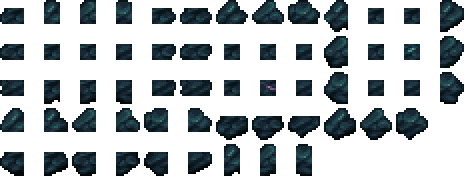
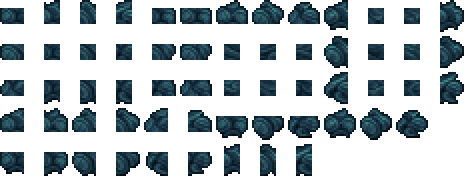
navystone sprite and kept old one for wall variety

diff --git a/World/SunkenSea.cs b/World/SunkenSea.cs
@@ -939,6 +939,17 @@ namespace CalamityMod.World
                                 WorldGen.PlaceTile(X, Y, (ushort)ModContent.TileType<Navystone>());
                             }
 
+                            float horizontalOffsetNoiseWallsinner = CalamityUtils.PerlinNoise2D(X / 80, Y / 80, 5, unchecked(cavePerlinSeedWalls + 1)) * 0.01f;
+                            float cavePerlinValueWallsinner = CalamityUtils.PerlinNoise2D(X / 375f, Y / 375f, 5, cavePerlinSeedWalls) + 0.5f + horizontalOffsetNoiseWallsinner;
+                            float cavePerlinValue2Wallsinner = CalamityUtils.PerlinNoise2D(X / 375f, Y / 375f, 5, unchecked(cavePerlinSeedWalls - 1)) + 0.5f;
+                            float caveNoiseMapWallsinner = (cavePerlinValueWallsinner + cavePerlinValue2Wallsinner) * 0.5f;
+                            float caveCreationThresholdWallsinner = horizontalOffsetNoiseWallsinner * 5.5f + 0.435f;
+
+                            if (caveNoiseMapWallsinner * caveNoiseMapWallsinner > caveCreationThresholdWallsinner)
+                            {
+                                WorldGen.PlaceWall(X, Y, ModContent.WallType<NavyslateWall>());
+                            }
+
                             //place walls in the biome using a different "seed" so it differs from the cave generation
                             //this creates a neat effect where walls worm their way through the caverns while leaving openings for the background to show through
                             float horizontalOffsetNoiseWalls = CalamityUtils.PerlinNoise2D(X / 80, Y / 80, 5, unchecked(cavePerlinSeedWalls + 1)) * 0.01f;
@@ -951,6 +962,8 @@ namespace CalamityMod.World
                             {
                                 WorldGen.PlaceWall(X, Y, ModContent.WallType<NavystoneWall>());
                             }
+
+                            
 
                             Main.tile[X, Y].Get<LiquidData>().LiquidType = LiquidID.Water;
                             Main.tile[X, Y].LiquidAmount = byte.MaxValue;

diff --git a/Walls/NavyslateWall.cs b/Walls/NavyslateWall.cs
@@ -6,15 +6,14 @@ using Terraria;
 using Terraria.ModLoader;
 namespace CalamityMod.Walls
 {
-    public class NavystoneWall : ModWall, IVisibleThroughWater
+    public class NavyslateWall : ModWall, IVisibleThroughWater
     {
-        internal static FramedMaskTexture GlowMask;
         int IVisibleThroughWater.WaterMapEntry { get; set; }
 
         public override void SetStaticDefaults()
         {
             DustType = 96;
-            this.AddMapEntryWithWaterVisibility(new Color(16, 45, 48));
+            this.AddMapEntryWithWaterVisibility(new Color(11, 40, 43));
         }
         
         public override void NumDust(int i, int j, bool fail, ref int num) => num = fail ? 1 : 3;
